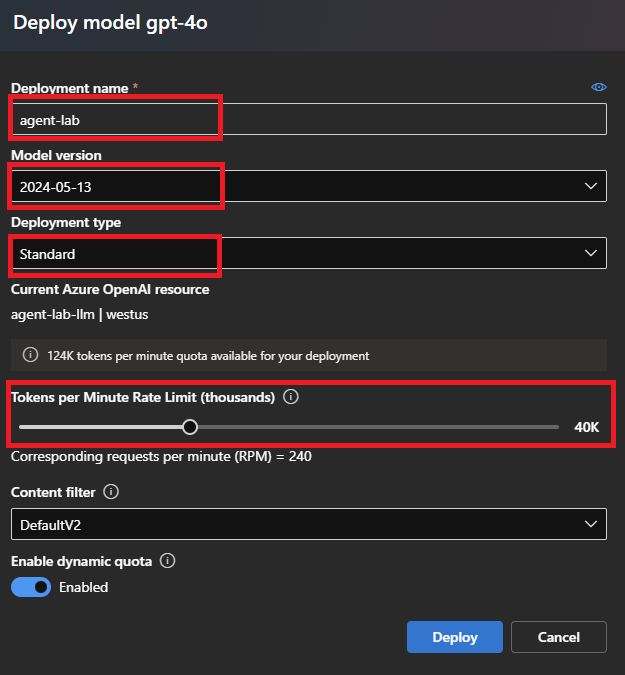
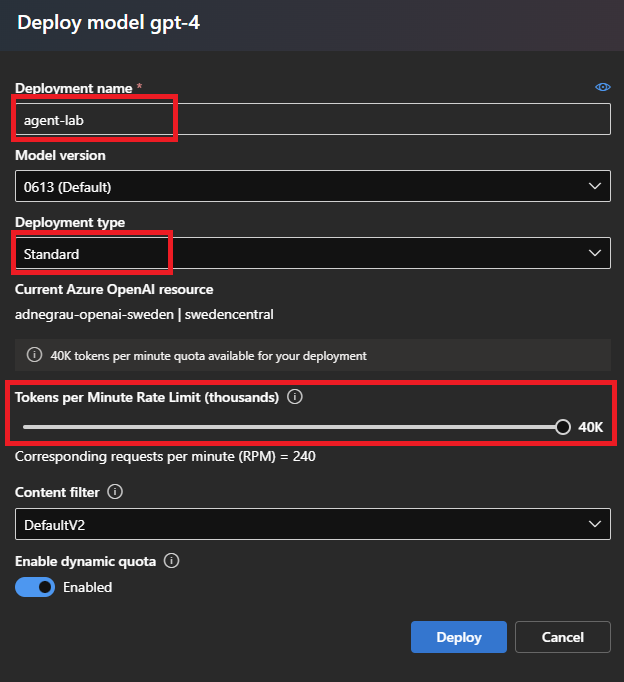
Update region and printscreen

diff --git a/agent-lab/docs/manual-deployment-in-azure-portal.md b/agent-lab/docs/manual-deployment-in-azure-portal.md
@@ -12,7 +12,7 @@
 
     <img src="images/rg-create.png" width="600">  
 
-5. Enter a valid name for your resource group (e.g. *rg-agentlab*) and select *West US*  
+5. Enter a valid name for your resource group (e.g. *rg-agentlab*) and select **Sweden Central**  
 
     **Note:** The model availability changes from region to region so, while not strictly mandatory, it is always better to choose a resource group in the same region as the service you will deploy. See the [availability map](https://learn.microsoft.com/en-us/azure/ai-services/openai/concepts/models#standard-deployment-model-availability).  
 
@@ -28,7 +28,7 @@
 
     <img src="images/add-azure-openai.png" width="800">  
 
-10. In the **Create Azure OpenAI** as resource group select the one you have just created (1), select the same region you have chosen for the resource group (2), give a name to the resource (3) (e.g. *agentlab-llm*)and select `Standard S0` as pricing tier (4).
+10. In the **Create Azure OpenAI** as resource group select the one you have just created (1), select **Sweden Central** (2) as Region, give a name to the resource (3) (e.g. *agentlab-llm*) and select `Standard S0` as pricing tier (4).
     Once done, click the `Next` button at the bottom of the page.  
 
     <img src="images/add-openai-info.png" width="600">  
@@ -52,13 +52,13 @@
 16. In the Azure OpenAI studio portal click the `Deployments` menu on the left, select `Deploy model` and then `Deploy base model`.  
 
     <img src="images/create-deployment.png" width="800"> 
-17. On the `Select a model`, choose gpt-4o.
+17. On the `Select a model`, choose gpt-4.
 
 18. On the **Deploy model gpt-4o** form use the following values.
     1. `Deployment name` = Choose any compatible name and **make a note of it**❗(e.g. *agent-lab*) since you will need this info later.
     2. `Model version` = `2024-05-13`
     3. `Deployment type` = `Standard`
-    3. Set the `Tokens per Minute Rate Limit` to at least `40K`
+    3. Set the `Tokens per Minute Rate Limit` to `40K`
 
     <img src="images/deployment-info.png" width="400">
 
